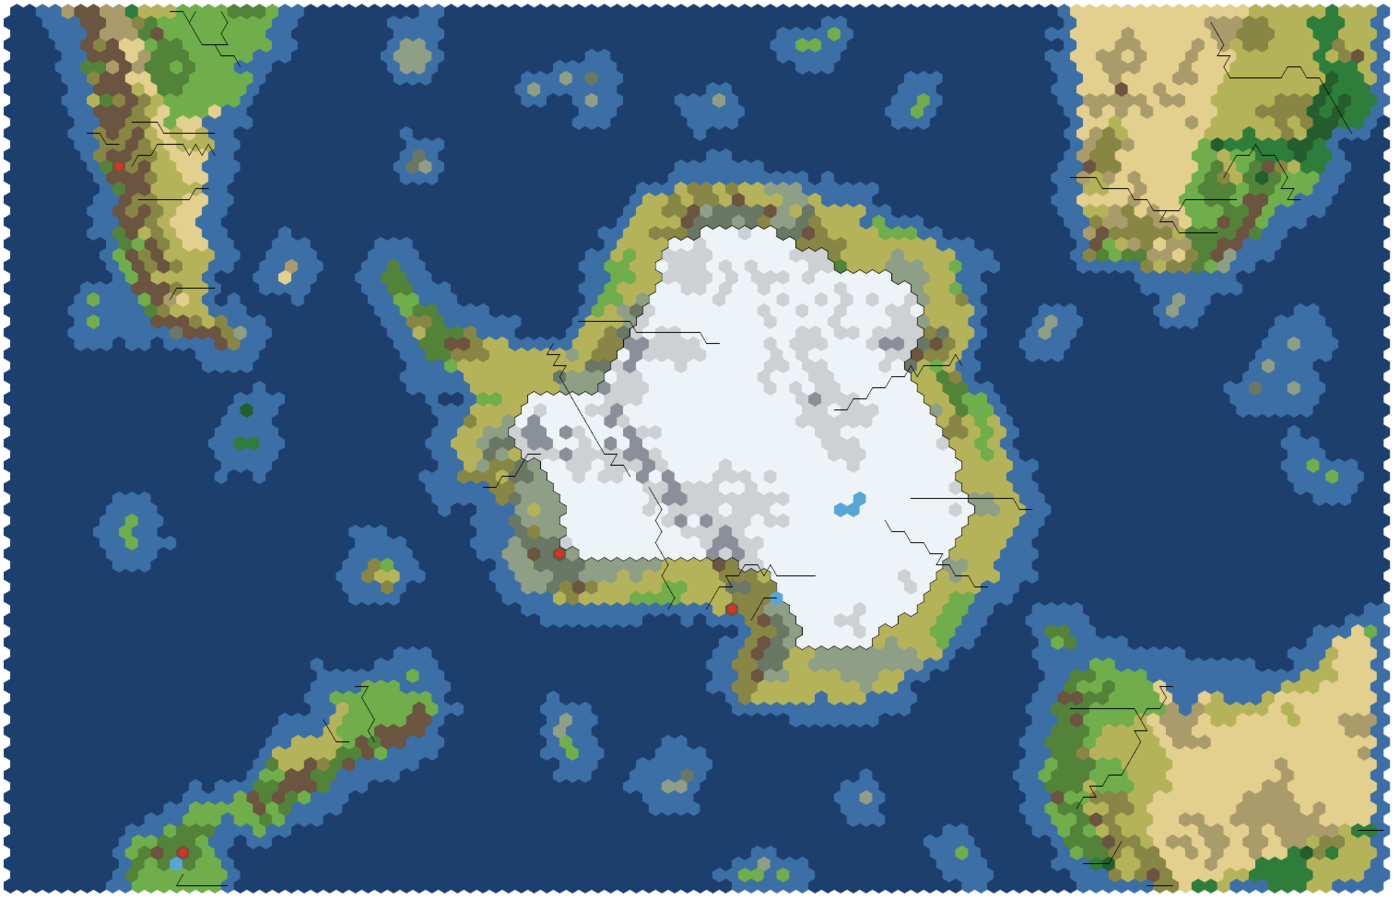
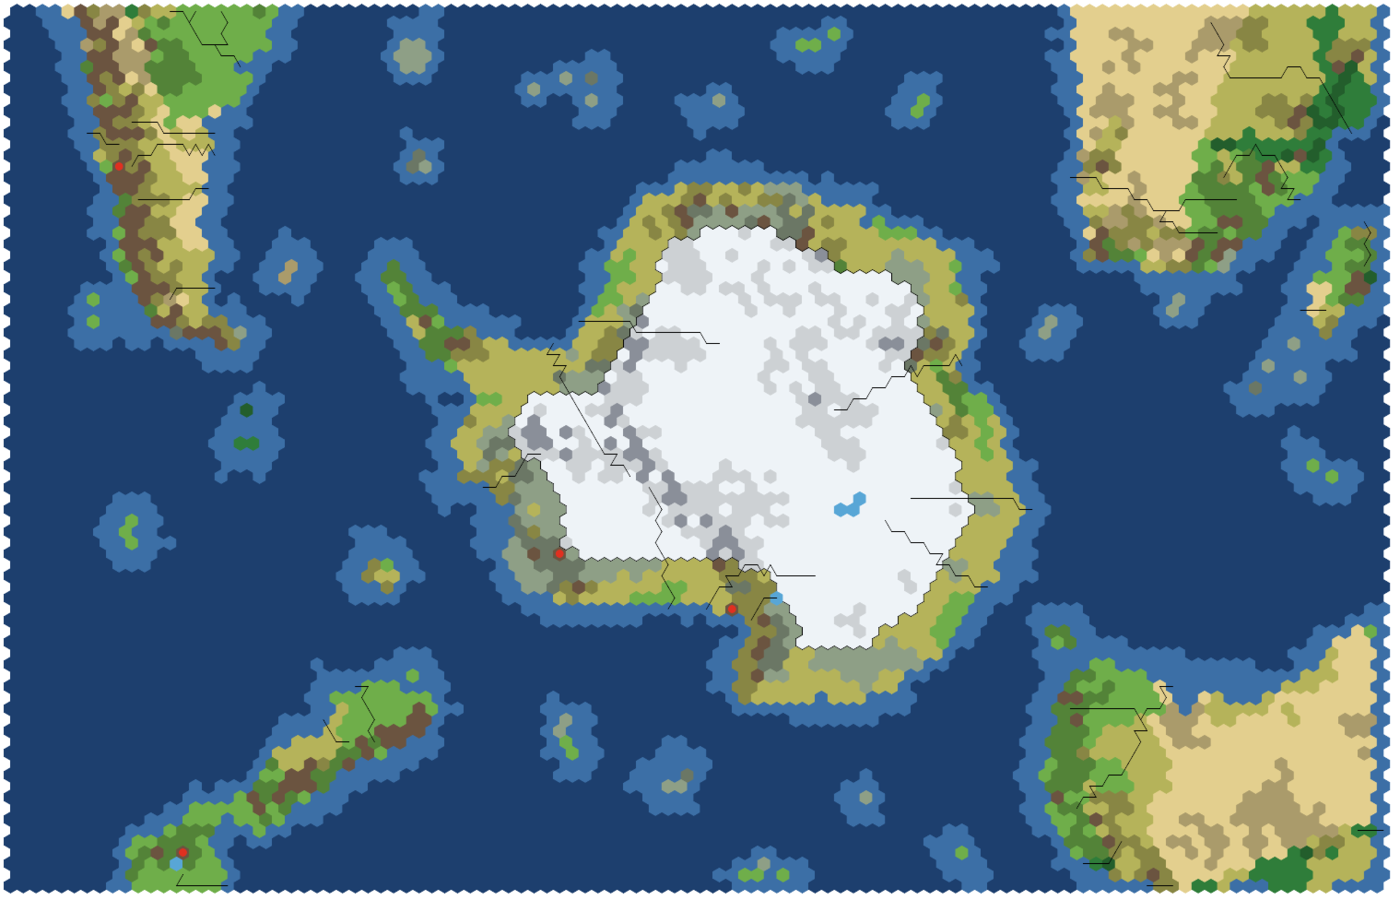
Antarctica: Madagascar peeks in from the right edge; wonders that were off the map
Madagascar sat entirely beyond the right edge. It becomes its own Distant
Land with its own frame, moved south of its real place so its western half
peeks in below Africa across a narrow Mozambique Channel, keeping real
coordinates so its biome rule (rainforest east, dry south-west) reads true
latitudes. It gets its highlands and the Betsiboka and Onilahy rivers.

Two named wonders never reached the map: Iguazu Falls is north of South
America's top edge, so it is left to the random pass; the Great Barrier
Reef is anchored at its real southern end, off Queensland at 24S, which is
on the map.

diff --git a/Antarctica/maps/antarctica-geo.js b/Antarctica/maps/antarctica-geo.js
@@ -234,14 +234,6 @@ export const GEO = {
                         [39.5, -4.5], [41, -2], [43, 0],
                     ],
                 },
-                {
-                    name: "Madagascar",
-                    pts: [
-                        [49.3, -12], [50.3, -15.5], [49.5, -17], [48, -21], [47, -25], [45, -25.5],
-                        [43.7, -23.5], [43.3, -21.5], [44.4, -19.5], [44, -17], [46, -15.8],
-                        [48, -13.5],
-                    ],
-                },
             ],
             ranges: [
                 {
@@ -259,10 +251,6 @@ export const GEO = {
                 {
                     name: "Namibian Highlands", w: 1.2, m: 0.05, h: 0.6,
                     pts: [[16.5, -27], [17, -23], [16.5, -19]],
-                },
-                {
-                    name: "Madagascar Highlands", w: 1, m: 0.35, h: 0.9,
-                    pts: [[48.8, -13.5], [47.5, -17], [47, -20], [46.6, -23.5]],
                 },
                 {
                     name: "Eastern Highlands", w: 1, m: 0.15, h: 0.7,
@@ -425,6 +413,32 @@ export const GEO = {
             ],
             lakes: [{ name: "Taupo", lon: 175.9, lat: -38.8, size: 1 }],
         },
+        {
+            id: "madagascar", name: "Madagascar", region: "distant",
+            frame: { type: "local", lon0: 47, lat0: -19, at: [1.53, 0.42], k: 0.03, rot: -18 },
+            polys: [
+                {
+                    name: "Madagascar",
+                    pts: [
+                        [49.3, -12], [50.3, -15.5], [49.5, -17], [48, -21], [47, -25], [45, -25.5],
+                        [43.7, -23.5], [43.3, -21.5], [44.4, -19.5], [44, -17], [46, -15.8],
+                        [48, -13.5],
+                    ],
+                },
+            ],
+            ranges: [
+                {
+                    name: "Madagascar Highlands", w: 1, m: 0.35, h: 0.9,
+                    pts: [[48.8, -13.5], [47.5, -17], [47, -20], [46.6, -23.5]],
+                },
+            ],
+            volcanoes: [],
+            rivers: [
+                { name: "Betsiboka", nav: 0, pts: [[47, -19.5], [46.6, -17], [46.3, -15.7]] },
+                { name: "Onilahy", nav: 0, pts: [[45.5, -22.8], [44.3, -23.4], [43.7, -23.6]] },
+            ],
+            lakes: [],
+        },
     ],
     islands: [
         { name: "South Orkney", lon: -45, lat: -60.8, r: 0.7, n: 2, spread: 1.5, climate: "polar" },
@@ -477,9 +491,8 @@ export const GEO = {
     ],
     wonders: [
         { feature: "FEATURE_TORRES_DEL_PAINE", land: "south-america", lon: -72.9, lat: -50.9 },
-        { feature: "FEATURE_IGUAZU_FALLS", land: "south-america", lon: -54.4, lat: -25.7 },
         { feature: "FEATURE_HOERIKWAGGO", land: "africa", lon: 18.5, lat: -33.9 },
         { feature: "FEATURE_ULURU", land: "australia", lon: 131, lat: -25.3 },
-        { feature: "FEATURE_BARRIER_REEF", land: "australia", lon: 147.5, lat: -18 },
+        { feature: "FEATURE_BARRIER_REEF", land: "australia", lon: 152.8, lat: -23.8 },
     ],
 };

diff --git a/editor-antarctica/app.js b/editor-antarctica/app.js
@@ -19,7 +19,7 @@ const EDGE = { "south-america": "top", africa: "top", australia: "bottom", "new-
 const BIOME_COL = { [B.GRASSLAND]: "#6fae4a", [B.PLAINS]: "#b5b35a", [B.DESERT]: "#e3cf8e", [B.TUNDRA]: "#8e9f86", [B.TROPICAL]: "#2f7d3a" };
 const T_NAME = ["ocean", "coast", "flat", "hills", "mountain", "lake"];
 const B_NAME = ["marine", "grassland", "plains", "desert", "tundra", "tropical"];
-const LAND_COL = ["#ffffff", "#ffb070", "#ffe070", "#ff8080", "#90e0ff"];
+const LAND_COL = ["#ffffff", "#ffb070", "#ffe070", "#ff8080", "#90e0ff", "#c0a0ff"];
 
 const $ = (id) => document.getElementById(id);
 const cv = $("map"), ctx = cv.getContext("2d");
@@ -670,7 +670,7 @@ function renderProps() {
         p.append(el("div", { class: "buttons" },
             ...[["poly", "+ Outline"], ["range", "+ Range"], ["river", "+ River"], ["lake", "+ Lake"], ["volcano", "+ Volcano"]].map(([t, lab]) => el("button", { onclick: () => addItem(t, l) }, lab)),
             el("button", { onclick: () => addWonder(l) }, "+ Wonder")));
-        if (!["antarctica", "south-america", "africa", "australia", "new-zealand"].includes(L.id)) p.append(el("p", {}, "No biome rules for this land id: it gets a temperate mix."));
+        if (!["antarctica", "south-america", "africa", "madagascar", "australia", "new-zealand"].includes(L.id)) p.append(el("p", {}, "No biome rules for this land id: it gets a temperate mix."));
         return;
     }
     const title = { poly: "Outline", range: "Mountain range", river: "River", lake: "Lake", volcano: "Volcano", island: "Island", wonder: "Natural wonder" }[sel.t];

diff --git a/Antarctica/maps/antarctica-raster.js b/Antarctica/maps/antarctica-raster.js
@@ -105,7 +105,6 @@ const BIOME_RULES = {
         return n < 0.55 ? B.GRASSLAND : B.TROPICAL;                                    // Parana forest
     },
     africa(lon, lat, n) {
-        if (lon > 42) return lon > 46.5 || lat > -14 ? (n < 0.75 ? B.TROPICAL : B.GRASSLAND) : (n < 0.6 ? B.PLAINS : B.DESERT);
         if (lat < -32.5) return lon < 22 ? (n < 0.5 ? B.PLAINS : B.GRASSLAND) : (n < 0.6 ? B.GRASSLAND : B.PLAINS);
         if (lon < 16.5) return B.DESERT;                                      // Namib
         if (lon < 25 && lat > -30) return n < 0.65 ? B.DESERT : B.PLAINS;     // Kalahari
@@ -114,6 +113,12 @@ const BIOME_RULES = {
         if (lat < -23) return n < 0.7 ? B.GRASSLAND : B.PLAINS;               // Highveld
         if (lon > 33) return n < 0.65 ? B.TROPICAL : B.PLAINS;
         return n < 0.6 ? B.PLAINS : (n < 0.85 ? B.TROPICAL : B.GRASSLAND);   // miombo savanna
+    },
+    madagascar(lon, lat, n) {
+        // rainforest on the wet east coast, grass on the highlands, dry spiny forest in the south-west
+        if (lon > 47.5 || lat > -14) return n < 0.75 ? B.TROPICAL : B.GRASSLAND;
+        if (lon < 45 && lat < -21) return n < 0.6 ? B.DESERT : B.PLAINS;
+        return n < 0.5 ? B.GRASSLAND : B.PLAINS;
     },
     australia(lon, lat, n) {
         if (lat < -40) return B.GRASSLAND;                                    // Tasmania

diff --git a/Antarctica/README.md b/Antarctica/README.md
@@ -45,9 +45,10 @@ off the map edges:
 
 | Corner | Land | Notes |
 |---|---|---|
-| upper left | South America, Cape Horn to the Paraná | Andes, Patagonian steppe, Pampas, Atacama; Paraná–Río de la Plata (navigable), Uruguay, Negro, Colorado, Chubut, Santa Cruz, Biobío; Villarrica; the Falklands; Torres del Paine and Iguazú Falls at their sites when the terrain allows |
+| upper left | South America, Cape Horn to the Paraná | Andes, Patagonian steppe, Pampas, Atacama; Paraná–Río de la Plata (navigable), Uruguay, Negro, Colorado, Chubut, Santa Cruz, Biobío; Villarrica; the Falklands; Torres del Paine at its site when the terrain allows (Iguazú is north of the top edge, so it is left to the random pass) |
 | upper right | Southern Africa, the Cape to the Zambezi | Namib and Kalahari, Karoo, Highveld, Drakensberg; Zambezi (navigable), Orange and Vaal, Limpopo; Table Mountain (Hoerikwaggo) at the Cape |
-| lower right | Australia, upside down with Tasmania towards the pole | the Outback, Great Dividing Range; Murray (navigable) and Darling, Burdekin, Fitzroy; Uluru and the Great Barrier Reef at their sites when the terrain allows |
+| right edge | Madagascar, moved south of its real place so its western half peeks in below Africa | its own land and frame; highlands, Betsiboka and Onilahy; rainforest east, dry south-west |
+| lower right | Australia, upside down with Tasmania towards the pole | the Outback, Great Dividing Range; Murray (navigable) and Darling, Burdekin, Fitzroy; Uluru, and the Great Barrier Reef at its southern end (the rest of the reef is past the bottom edge), when the terrain allows |
 | lower left | New Zealand, drawn about twice as large as the rest so it is worth the trip | Southern Alps, Ruapehu, Lake Taupo; Waikato, Clutha, Waitaki |
 
 Twenty islands and small archipelagos fill the oceans in between, as small Distant Lands: in the
